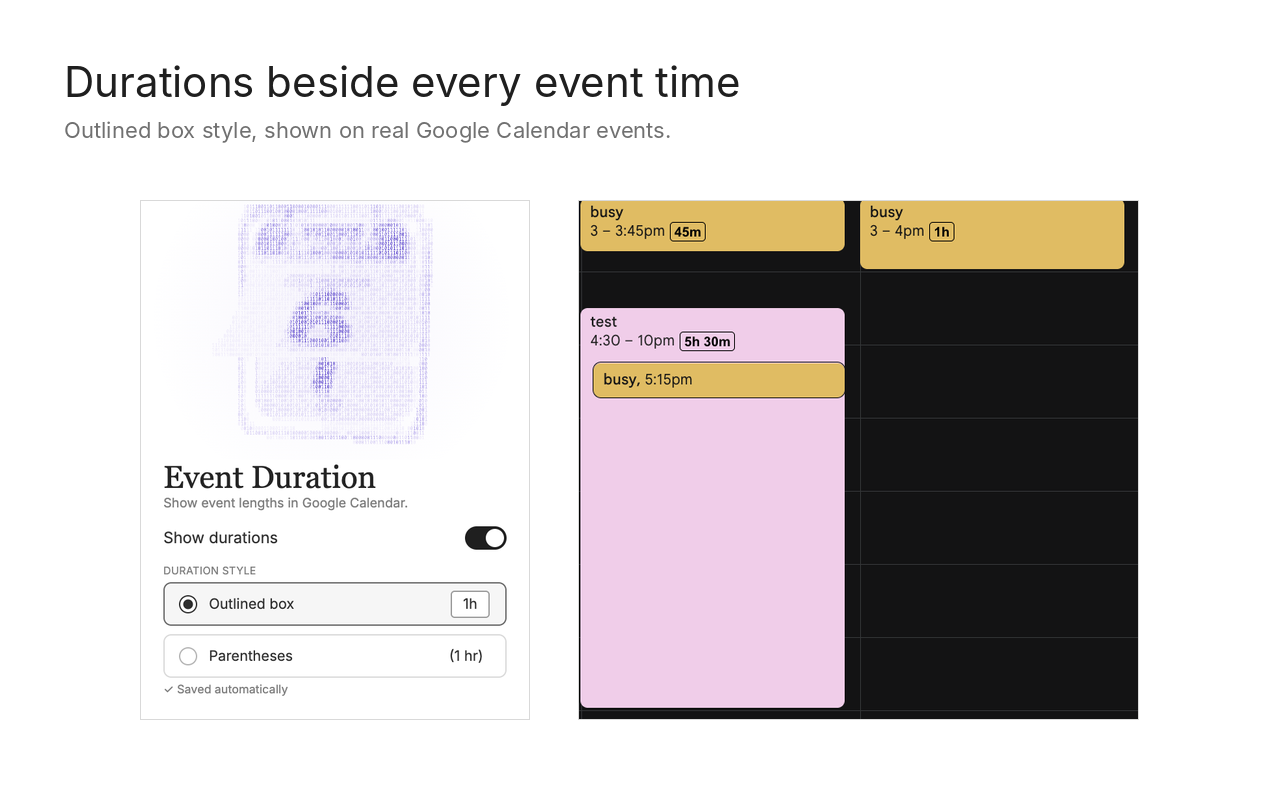
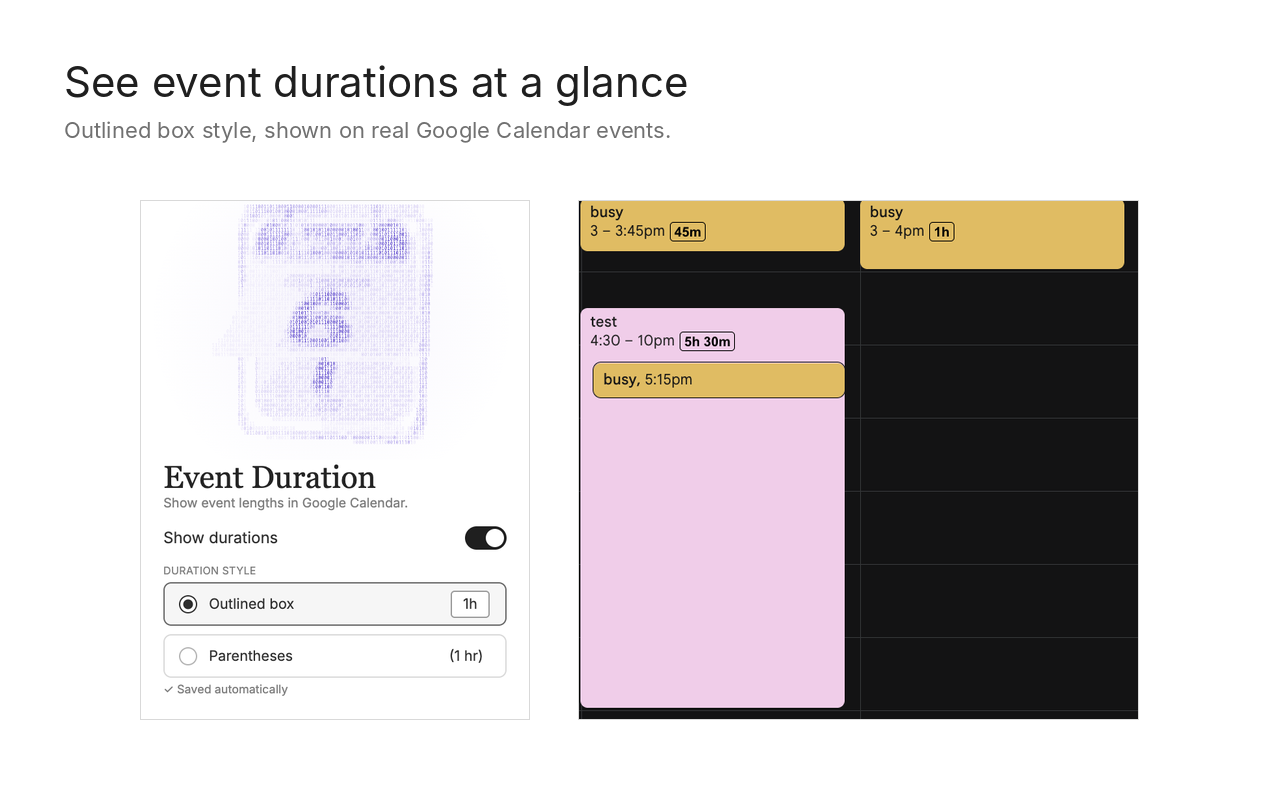
Use accurate heading on store screenshot 1

Changed region(s): [[0.0312, 0.0938, 0.5938, 0.125]]

diff --git a/scripts/store_assets.py b/scripts/store_assets.py
@@ -26,7 +26,7 @@ def canvas(title, caption):
 
 
 screens = [
-    ("box", "Durations beside every event time", "Outlined box style, shown on real Google Calendar events."),
+    ("box", "See event durations at a glance", "Outlined box style, shown on real Google Calendar events."),
     ("text", "Prefer plain text? Use parentheses", "Switch styles in the popup. Open Calendar tabs update instantly."),
     ("off", "Turn durations off anytime", "One switch hides every label. Your style choice is kept."),
 ]
